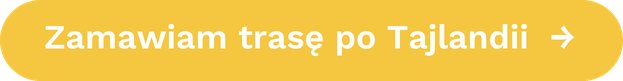
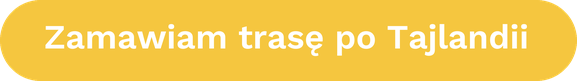
Drop the arrow glyph from the CTA label
Removes the trailing "→" from all nine CTA pills. The narrower label shifts the
overlay geometry, regenerated from the template.

The brush-stroke arrow that points at the button on desktop is a separate
element in the banner bitmap and is untouched.

diff --git a/Baner_Indonezja.html b/Baner_Indonezja.html
@@ -62,9 +62,9 @@
 
 /* ——— desktop ——— */
 .esk-bn__cta--d {
-  left: 61.3303%;
+  left: 63.9233%;
   top: 84.3292%;
-  width: 35.5130%;
+  width: 32.9200%;
 }
 .esk-bn__cta--m { display: none; }
 
@@ -82,9 +82,9 @@
   .esk-bn__cta--d { display: none; }
   .esk-bn__cta--m {
     display: block;
-    left: 11.2037%;
+    left: 14.0741%;
     top: 88.9018%;
-    width: 77.5926%;
+    width: 71.7593%;
   }
 }
 </style>

diff --git a/Baner_Tajlandia.html b/Baner_Tajlandia.html
@@ -62,9 +62,9 @@
 
 /* ——— desktop ——— */
 .esk-bn__cta--d {
-  left: 61.7249%;
+  left: 64.3179%;
   top: 84.3292%;
-  width: 35.1184%;
+  width: 32.5254%;
 }
 .esk-bn__cta--m { display: none; }
 
@@ -82,9 +82,9 @@
   .esk-bn__cta--d { display: none; }
   .esk-bn__cta--m {
     display: block;
-    left: 11.7593%;
+    left: 14.6296%;
     top: 88.9018%;
-    width: 76.4815%;
+    width: 70.6481%;
   }
 }
 </style>

diff --git a/Baner_Wietnam.html b/Baner_Wietnam.html
@@ -62,9 +62,9 @@
 
 /* ——— desktop ——— */
 .esk-bn__cta--d {
-  left: 59.6956%;
+  left: 62.2886%;
   top: 84.3292%;
-  width: 37.1477%;
+  width: 34.5547%;
 }
 .esk-bn__cta--m { display: none; }
 
@@ -82,9 +82,9 @@
   .esk-bn__cta--d { display: none; }
   .esk-bn__cta--m {
     display: block;
-    left: 9.4444%;
+    left: 12.3148%;
     top: 88.9018%;
-    width: 81.1111%;
+    width: 75.2778%;
   }
 }
 </style>
